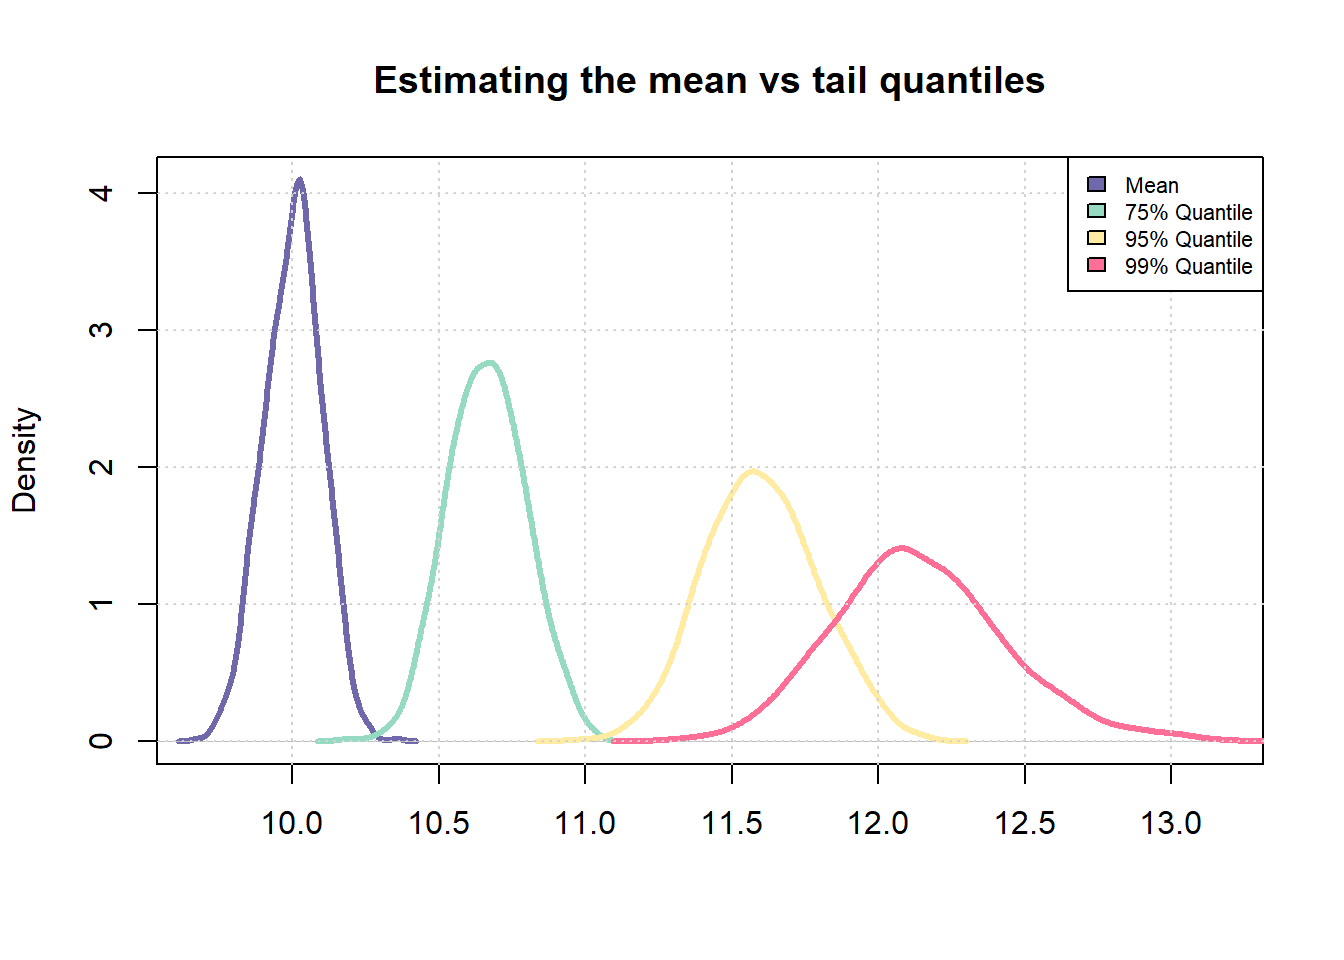
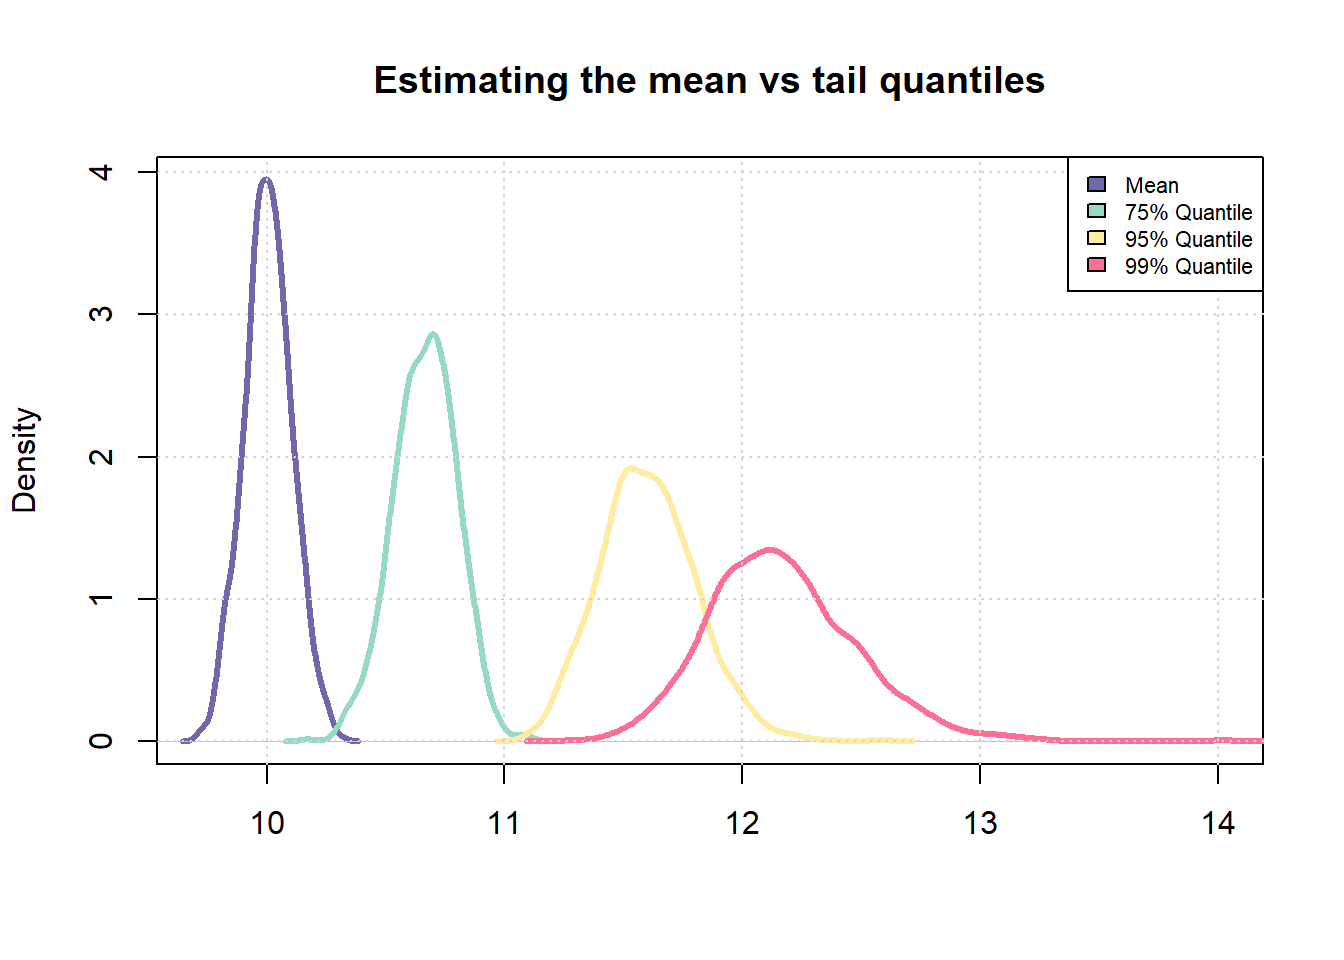
Updated post

diff --git a/content/post/assessing_score_reliability/index.md b/content/post/assessing_score_reliability/index.md
@@ -50,11 +50,11 @@ sample_99_quantile <- apply(samples, 1, quantile, p = 0.99)
 
 ```r
 sd(sample_means)/mean(sample_means)
-## [1] 0.009884222
+## [1] 0.01004958
 sd(sample_75_quantile)/mean(sample_75_quantile)
-## [1] 0.01262652
+## [1] 0.01257408
 sd(sample_95_quantile)/mean(sample_75_quantile)
-## [1] 0.01822227
+## [1] 0.01908979
 ```
 
 
@@ -81,7 +81,7 @@ legend("topright",
 
 ![](chart1-1.png)
 
-It is easy to notice that the variability in estimating the sample 99% quantile is much higher than the variability in estimating the sample mean. We will now try to extend this idea to a scorecard model.
+It is easy to notice that the uncertainty in estimating the sample 99% quantile is much higher than the uncertainty in estimating the sample mean. We will now try to extend this idea to a scorecard model.
 
 ## Libraries
 
@@ -125,7 +125,7 @@ table(sample$bad_flag)
 ```
 
 ## Sampling
-We'll use `bootstrapped sampling` to create multiple training sets. We will then repeatedly train a model on each training set and assess how volatile model predictions are across score ranges. We'll use the `bootstraps()` function in the `rsample` package.
+We'll use `bootstrapped sampling` to create multiple training sets. We will then repeatedly train a model on each training set and assess the variability in volatile model predictions across score ranges. We'll use the `bootstraps()` function in the `rsample` package.
 
 
 ```r
@@ -139,16 +139,16 @@ head(boot_sample, 3)
 ## # A tibble: 3 x 2
 ##   splits               id          
 ##   <list>               <chr>       
-## 1 <split [10000/3653]> Bootstrap001
-## 2 <split [10000/3670]> Bootstrap002
-## 3 <split [10000/3647]> Bootstrap003
+## 1 <split [10000/3673]> Bootstrap001
+## 2 <split [10000/3659]> Bootstrap002
+## 3 <split [10000/3711]> Bootstrap003
 ```
 
 
 ```r
 boot_sample$splits[[1]]
 ## <Analysis/Assess/Total>
-## <10000/3653/10000>
+## <10000/3673/10000>
 ```
 
 Each row represents a separate bootstrapped sample whereas within each sample, there are two sub-samples namely an `analysis set` and an `assessment set`. To retrieve a bootstrapped sample as a `data.frame`, the package provides two helper functions -  `analysis()` and `assessment()`
@@ -158,11 +158,11 @@ Each row represents a separate bootstrapped sample whereas within each sample, t
 # Show the first 5 rows and 5 columns of the first sample
 analysis(boot_sample$splits[[1]]) %>% .[1:5, 1:5]
 ##         V1        id member_id loan_amnt funded_amnt
-## 1168 81298 104744388        -1     12000       12000
-## 1102 22339 124978291        -1     10000       10000
-## 8874 49313  45644374        -1     10000       10000
-## 9877 56719  79805315        -1     16000       16000
-## 6776 41437 129724819        -1     30000       30000
+## 8187 11625 124888250        -1      6025        6025
+## 9570 71335  43479717        -1      5400        5400
+## 8876 15514    724509        -1     10200       10200
+## 1855 95785  95275253        -1      8000        8000
+## 7685  7428  33991869        -1     12000       12000
 ```
 
 The [getting started](https://rsample.tidymodels.org/articles/rsample.html) page of the `rsample` package has additional information.
@@ -196,11 +196,10 @@ train <- analysis(boot_sample$splits[[1]])
 
 # Predict
 pred <- glm_model(train)
-## Warning: glm.fit: fitted probabilities numerically 0 or 1 occurred
 
 # Check output
 range(pred)  # Output is on log odds scale
-## [1] -55.7245790   0.9599213
+## [1] -7.536032  1.738245
 ```
 ## Fitting the model repeatedly
 Now we need to fit the model repeatedly on each of the bootstrapped samples and store the fitted values. And since we are using `R`, for-loops are not allowed :laughing:
@@ -219,7 +218,7 @@ output <- lapply(boot_sample$splits, function(x){
 # Collate all predictions into a vector 
 boot_preds <- do.call(c, output)
 range(boot_preds)
-## [1] -118.238136    5.395562
+## [1] -129.630894    4.291622
 ```
 
 
@@ -237,23 +236,24 @@ boot_preds[boot_preds > q_high] <- q_high
 boot_preds[boot_preds < q_low] <- q_low
 
 range(boot_preds)
-## [1] -5.0704831 -0.2168814
+## [1] -5.0393835 -0.2245903
 ```
 
 ```r
+# Convert to a data frame
 boot_preds <- data.frame(pred = boot_preds, 
                          id = rep(1:length(boot_sample$splits), each = nrow(sample)))
 head(boot_preds)
-##        pred id
-## 1 -2.224806  1
-## 2 -1.431793  1
-## 3 -2.150621  1
-## 4 -2.754994  1
-## 5 -1.967312  1
-## 6 -1.964916  1
+##         pred id
+## 1 -2.0468697  1
+## 2 -0.9876973  1
+## 3 -1.3107322  1
+## 4 -3.1588607  1
+## 5 -1.8256056  1
+## 6 -2.9387325  1
 ```
 
-## Scaling the output
+## Scaling model predictions
 Given `log-odds`, we can now scale the output and make it look like a credit score. We'll use the industry standard **points to double odds** methodology.
 
 
@@ -291,7 +291,7 @@ ggplot(boot_preds, aes(x = scores, color = factor(id))) +
 
 ![](chart2-1.png)
 
-## Assessing reliability 
+## Assessing variability 
 Now that we have model predictions for each bootstrapped sample scaled in the form of a score, we can evaluate the variability in these predictions in a visual manner. 
 
 
